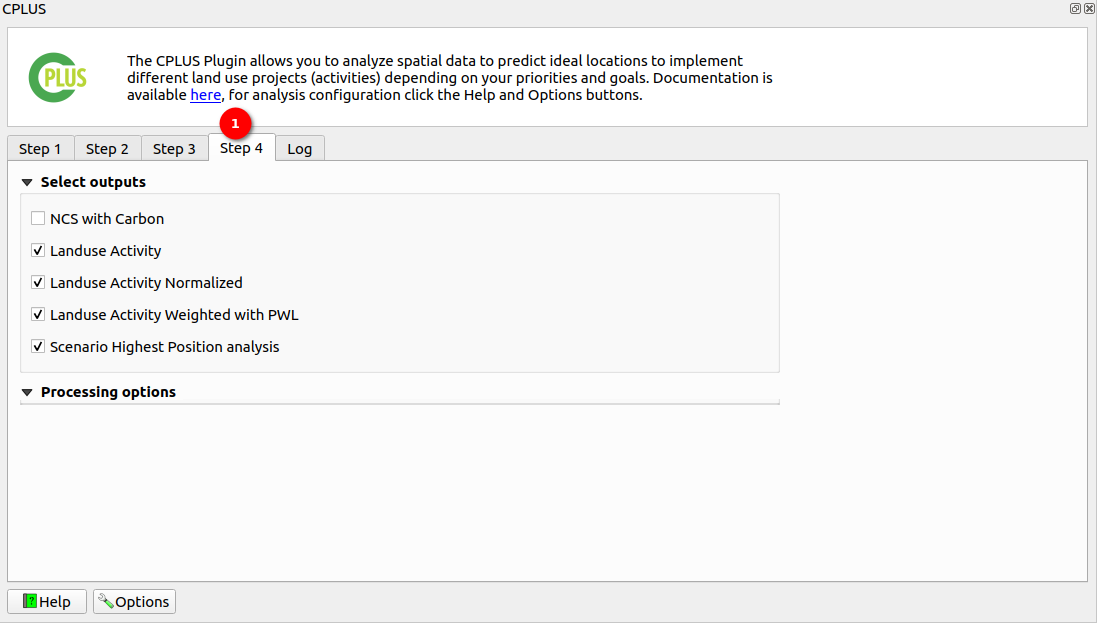
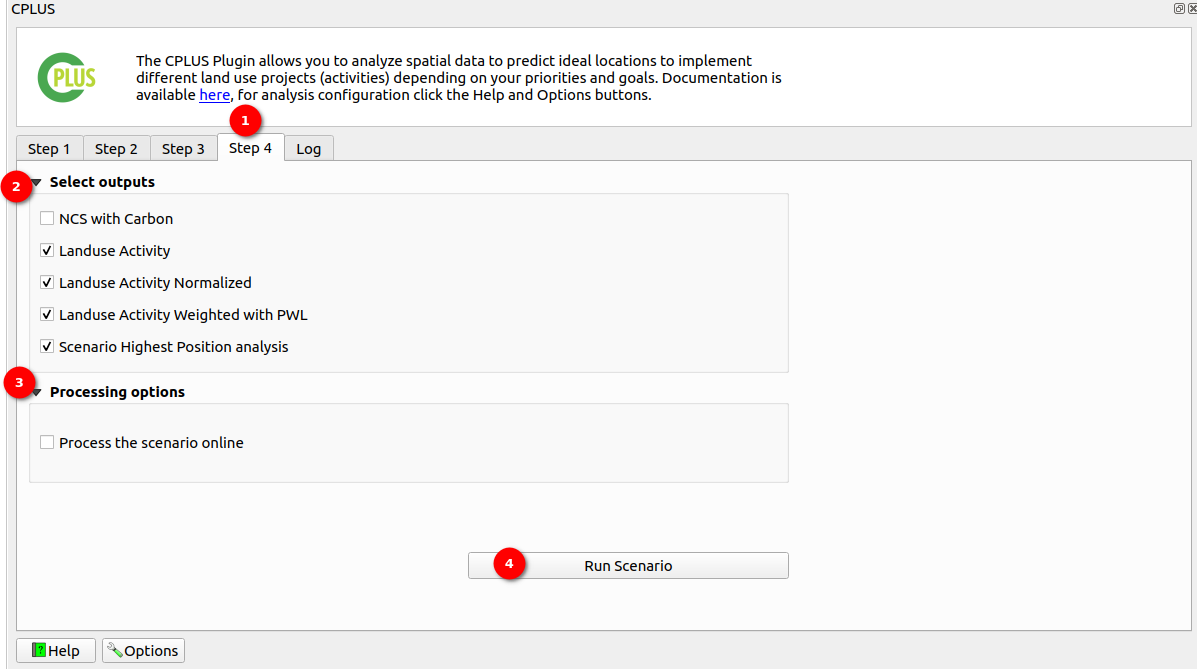
Add documentation for the processing and run scenario

Changed region(s): [[0.0, 0.0, 1.0, 1.0], [0.4029, 0.8234, 0.5579, 0.8844]]

diff --git a/docs/user/manual/step-4.md b/docs/user/manual/step-4.md
@@ -8,20 +8,40 @@ This step is crucial for tailoring the report to include only the necessary info
 
 ![Step 4](./img/step-4.png)
 
-## Select Outputs
+2. **Select Outputs**
 
-There are 5 options available in the select outputs. 
+    There are 5 options available in the select outputs. 
 
-![Step 4](./img/step-4-1.png)
+    ![Select options](./img/step-4-1.png)
 
-1. **NCS With Carbon:** This output is initially unchecked by default. When selected, it triggers the generation of the NCS pathways output, providing insights into the pathways associated with NCS (Natural climate solution) and carbon sequestration.
+    1. **NCS With Carbon:** This output is initially unchecked by default. When selected, it triggers the generation of the NCS pathways output, providing insights into the pathways associated with NCS (Natural climate solution) and carbon sequestration.
 
-2. **Landuse Activity:** Initially, this output is checked by default. It generates landuse project layer outputs, providing valuable insights into various landuse activities. Users have the option to uncheck it if they do not wish to include landuse data in the report.
+    2. **Landuse Activity:** Initially, this output is checked by default. It generates landuse project layer outputs, providing valuable insights into various landuse activities. Users have the option to uncheck it if they do not wish to include landuse data in the report.
 
-3. **Landuse Activity Normalised:** By default, this output is checked. It generates landuse project normalised outputs, providing a normalised view of landuse activities for enhanced analysis. Users have the option to uncheck it if they do not wish to include landuse normalised data in the report.
+    3. **Landuse Activity Normalised:** By default, this output is checked. It generates landuse project normalised outputs, providing a normalised view of landuse activities for enhanced analysis. Users have the option to uncheck it if they do not wish to include landuse normalised data in the report.
 
-4. **Landuse Activity Weighted with PWL (Priority weighted layers):** By default, this output is checked. It generates landuse projects weighted outputs. Unselecting this option will disable report generation this is because the weighted output is the required output for report generation.
+    4. **Landuse Activity Weighted with PWL (Priority weighted layers):** By default, this output is checked. It generates landuse projects weighted outputs. Unselecting this option will disable report generation this is because the weighted output is the required output for report generation.
 
-5. **Scenario Highest Position analysis:** By default, this output is checked. It generates the final highest position analysis outputs. Unselecting this option will disable report generation this is because the highest position analysis output is the required output for report generation.
+    5. **Scenario Highest Position analysis:** By default, this output is checked. It generates the final highest position analysis outputs. Unselecting this option will disable report generation this is because the highest position analysis output is the required output for report generation.
 
-## Processing Options
+3. **Processing Options**
+
+    The user can also choose the processing option, deciding whether they want to process online or offline.
+
+    ![Processing option](./img/step-4-2.png)
+
+    1. **Process the scenario online:** By default, this option is unchecked. When the user selects this option, the scenario is processed online using the API. This means that the system sends the scenario data to a remote server or service via the Internet. The remote server performs the necessary computations or analysis based on the provided scenario data. Processing online allows for real-time analysis and can leverage the computing power and resources available on the remote server. This option might be preferred when the user requires quicker results or when the scenario data is too large or complex to be processed efficiently on the user's local device. However, processing online may require a stable internet connection.
+
+4. **Run Scenario:** 
+
+    After checking or unchecking the checkbox, click on the `Run Scenario` button to execute the scenario and generate the report. 
+
+    ![Processing option](./img/step-4-3.png)
+
+    1. **Progress Bar:** Upon clicking this button, a pop-up window will appear, displaying a progress bar indicating the report generation status. 
+
+    2. **View Report:** Once the report is generated, the user can click on the `View Report` button, to view the generated report.
+
+    3. **Cancel:** Click on the `Cancel` button to terminate the report generation process. Upon clicking this button, it will transform into the `Close` button. Click on the `Close` button to dismiss the pop-up window.
+
+    ![Close action](./img/step-4-4.png)
